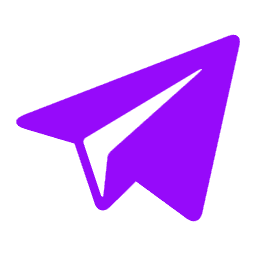
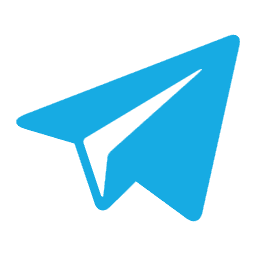
更新消息部件FunWidget

Changed region(s): [[0.0625, 0.125, 0.9375, 0.875]]

diff --git a/qt_chat/main.py b/qt_chat/main.py
@@ -97,7 +97,6 @@ class ListWidget(QListWidget):
         self.resize(974, 350)
         self.setSizePolicy(QSizePolicy.Expanding, QSizePolicy.Preferred)
         self.setHorizontalScrollBarPolicy(Qt.ScrollBarAlwaysOff)
-        self.setVerticalScrollBarPolicy(Qt.ScrollBarAlwaysOff)
         self.setFocusPolicy(Qt.NoFocus)
         self.setStyleSheet('''
         QListWidget{
@@ -158,7 +157,7 @@ class FunWidget(QWidget):
         ''')
         #newChatButton PushButton
         self.newChatButton = PushButton()
-        self.newChatButton.setFixedSize(36, 36)
+        self.newChatButton.setFixedSize(32, 32)
         self.newChatButton.setStyleSheet('''
         QPushButton{
             border-image: url("new_chat.png");
@@ -218,7 +217,7 @@ class TextEdit(QTextEdit):
             border: none;
             background :transparent;
             font-size: 22px;
-            selection-background-color: rgb(150, 10, 250);
+            selection-background-color: rgb(23, 171, 227);
         }
         QScrollBar{
             width: 25px;
@@ -368,11 +367,27 @@ class ImageLabel(QLabel):
         else:
             self.setPixmap(QPixmap("ai.png"))
 
+class CustomLabel(QLabel):
+    textSelected = pyqtSignal(str)
+
+    def __init__(self, parent=None):
+        super(CustomLabel, self).__init__(parent)
+
+    def mousePressEvent(self, event):
+        QLabel.mousePressEvent(self, event)
+        event.ignore()
+
+    def mouseReleaseEvent(self, event):
+        if event.button() == Qt.LeftButton:
+            if self.hasSelectedText():
+                self.textSelected.emit(self.selectedText())
+        QLabel.mouseReleaseEvent(self, event)
+
 class TextLabel(QWidget):
     def __init__(self, text, isUser=True, maxWidth=650, parent=None):
         super(TextLabel, self).__init__(parent)
         self.text = text.strip('\n')
-        self.label = QLabel()
+        self.label = CustomLabel()
         self.label.setTextInteractionFlags(Qt.TextSelectableByMouse)
         self.label.setWordWrap(True)
         self.maxWidth = maxWidth
@@ -504,11 +519,8 @@ class TextLabel(QWidget):
             self.label.setFixedSize(22, 22)
             self.setFixedSize(32, 32)
 
-    def hasSelectedText(self):
-        return self.label.hasSelectedText()
-
-    def selectedText(self):
-        return self.label.selectedText()
+    def connectTextSelect(self, fun):
+        self.label.textSelected.connect(fun)
 
 class LoadingWidget(QWidget):
     def __init__(self, parent=None):
@@ -544,15 +556,35 @@ class LoadingWidget(QWidget):
         ''')
         self.loadingNum = (self.loadingNum + 1) % 3
 
+class CustomButton(QPushButton):
+    def __init__(self, parent=None):
+        super(CustomButton, self).__init__(parent)
+        self.parent = parent
+        self.setCursor(Qt.PointingHandCursor)
+        #QClipboard
+        self.clip = QApplication.clipboard()
+
+    def mousePressEvent(self, event):
+        if self.parent.hasSelectedText():
+            self.clip.setText(self.parent.getSelectedText())
+        else:
+            self.clip.setText(self.parent.getText())
+        QPushButton.mousePressEvent(self, event)
+        event.ignore()
+
 class MessageWidget(QWidget):
     def __init__(self, text, copyFun, renewResponseFun, isUser=True, textMaxWidth=650, parent=None):
         super(MessageWidget, self).__init__(parent)
         self.text = text
         self.isUser = isUser
+        #selectedText
+        self.selectedText = ''
+        self.selectedTextIsLatest = False
         #ImageLabel
         self.imageLabel = ImageLabel(isUser=self.isUser)
         #TextLabel
         self.textLabel = TextLabel(text, isUser=self.isUser, maxWidth=textMaxWidth)
+        self.textLabel.connectTextSelect(self.setSelectedText)
         #loadingWidgetIsRemove
         self.loadingWidgetIsRemove = True
         #textWidget QWidget
@@ -593,8 +625,8 @@ class MessageWidget(QWidget):
         self.mainHLayout.setSpacing(5)
         #main widget set size
         self.setFixedSize(self.imageLabel.width() + 5 + self.textWidget.width(), self.imageLabel.height() if self.imageLabel.height() > self.textWidget.height() else self.textWidget.height())
-        #copyButton PushButton
-        self.copyButton = PushButton()
+        #CustomButton
+        self.copyButton = CustomButton(self)
         self.copyButton.setFixedSize(22, 22)
         self.copyButton.setStyleSheet('''
         QPushButton{
@@ -619,14 +651,12 @@ class MessageWidget(QWidget):
         self.renewResponseButton.clicked.connect(renewResponseFun)
         #funWidget QWidget
         self.funWidget = QWidget()
-        self.funWidget.setFixedSize(64, 32)
+        self.funWidget.setFixedSize(32, 32)
         #funHLayout QHBoxLayout
         self.funHLayout = QHBoxLayout()
         self.funWidget.setLayout(self.funHLayout)
         self.funHLayout.addWidget(self.copyButton)
-        self.funHLayout.addWidget(self.renewResponseButton)
         self.funHLayout.setContentsMargins(5, 5, 5, 5)
-        self.funHLayout.setSpacing(10)
 
     def setText(self, text):
         self.text = text
@@ -664,19 +694,44 @@ class MessageWidget(QWidget):
             self.setFixedSize(self.imageLabel.width() + 5 + self.textWidget.width(), self.imageLabel.height() if self.imageLabel.height() > self.textWidget.height() else self.textWidget.height())
 
     def addFunWidget(self):
-        self.textLayout.addWidget(self.funWidget)
-        self.textLayout.setSpacing(0)
-        self.textWidget.setFixedSize(self.textLabel.width() if self.textLabel.width() > self.funWidget.width() else self.funWidget.width(), self.textLabel.height() + self.funWidget.height())
-        self.setFixedSize(self.imageLabel.width() + 5 + self.textWidget.width(), self.imageLabel.height() if self.imageLabel.height() > self.textWidget.height() else self.textWidget.height())
+        if self.isUser:
+            self.textLayout.addWidget(self.funWidget)
+            self.textLayout.setSpacing(0)
+            self.textWidget.setFixedSize(self.textLabel.width() if self.textLabel.width() > self.funWidget.width() else self.funWidget.width(), self.textLabel.height() + self.funWidget.height())
+            self.setFixedSize(self.imageLabel.width() + 5 + self.textWidget.width(), self.imageLabel.height() if self.imageLabel.height() > self.textWidget.height() else self.textWidget.height())
+        else:
+            self.funHLayout.addWidget(self.renewResponseButton)
+            self.funHLayout.setSpacing(10)
+            self.funWidget.setFixedSize(64, 32)
+            self.textLayout.addWidget(self.funWidget)
+            self.textLayout.setSpacing(0)
+            self.textWidget.setFixedSize(self.textLabel.width() if self.textLabel.width() > self.funWidget.width() else self.funWidget.width(), self.textLabel.height() + self.funWidget.height())
+            self.setFixedSize(self.imageLabel.width() + 5 + self.textWidget.width(), self.imageLabel.height() if self.imageLabel.height() > self.textWidget.height() else self.textWidget.height())
 
-    def getCopyButtonId(self):
-        return id(self.copyButton)
+    def removeRenewResponseButton(self):
+        if not self.isUser:
+            self.funHLayout.removeWidget(self.renewResponseButton)
+            self.renewResponseButton.deleteLater()
+            self.funWidget.setFixedSize(32, 32)
+            self.textWidget.setFixedSize(self.textLabel.width() if self.textLabel.width() > self.funWidget.width() else self.funWidget.width(), self.textLabel.height() + self.funWidget.height())
+            self.setFixedSize(self.imageLabel.width() + 5 + self.textWidget.width(), self.imageLabel.height() if self.imageLabel.height() > self.textWidget.height() else self.textWidget.height())
+
+    def setSelectedText(self, text):
+        self.selectedText = text
+        self.selectedTextIsLatest = True
 
     def hasSelectedText(self):
-        return self.textLabel.hasSelectedText()
+        return self.selectedTextIsLatest
 
-    def selectedText(self):
-        return self.textLabel.selectedText()
+    def getSelectedText(self):
+        tempSelectedText = self.selectedText
+        self.selectedText = ''
+        self.selectedTextIsLatest = False
+        return tempSelectedText
+
+    def clearSelectedText(self):
+        self.selectedText = ''
+        self.selectedTextIsLatest = False
 
 class PrintLabel(QWidget):
     def __init__(self, text, parent=None):
@@ -688,7 +743,7 @@ class PrintLabel(QWidget):
         self.font.setBold(True)
         self.label.setFont(self.font)
         self.palette = self.label.palette()
-        self.palette.setColor(QPalette.WindowText, QColor(150, 10, 250))
+        self.palette.setColor(QPalette.WindowText, QColor(23, 171, 227))
         self.label.setPalette(self.palette)
         self.label.setAlignment(Qt.AlignCenter)
         self.mainHLayout = QHBoxLayout()
@@ -1112,8 +1167,6 @@ class MainWindow(QMainWindow):
         self.setCentralWidget(self.splitter)
         #messageWidget list
         self.messageWidgetList = []
-        #messageCopyId list
-        self.messageCopyIdList = []
         #ChatRecordsWidget
         self.chatRecordsWidget = ChatRecordsWidget(self)
         self.chatRecordsWidget.connectListItemClick(self.generateChatRecord)
@@ -1132,11 +1185,19 @@ class MainWindow(QMainWindow):
         self.saveImageLabel.move(int((self.width() - self.saveImageLabel.width()) / 2), self.chatShow.height() - self.saveImageLabel.height() + 60)
         self.saveImageLabel.raise_()
         self.saveImageLabel.hide()
-        #QClipboard
-        self.clip = QApplication.clipboard()
+        #textCopyLabel PrintLabel
+        self.textCopyLabel = PrintLabel('文本复制成功', self)
+        self.textCopyLabel.move(int((self.width() - self.textCopyLabel.width()) / 2), self.chatShow.height() - self.textCopyLabel.height() + 60)
+        self.textCopyLabel.raise_()
+        self.textCopyLabel.hide()
 
     def mousePressEvent(self, event):
         if event.button() == Qt.LeftButton:
+            #messageWidget clear selectedText
+            for i in range(0, len(self.messageWidgetList)):
+                if self.messageWidgetList[i].hasSelectedText():
+                    self.messageWidgetList[i].clearSelectedText()
+            #judge mouse press position
             if self.settingWidgetIsOpen:
                 notSettingRect = QRect(self.settingWidget.width(), 0, self.width() - self.settingWidget.width(), self.height())
                 if notSettingRect.contains(event.pos()):
@@ -1166,15 +1227,15 @@ class MainWindow(QMainWindow):
         textMaxWidth = int(self.chatShow.width() * 2 / 3)
         for i in range(0, self.chatShow.count()):
             #messageWidget set max width of textLabel
-            self.messageWidgetList[i].setTextMaxWidth(textMaxWidth)
             messageWidget = self.messageWidgetList[i]
+            messageWidget.setTextMaxWidth(textMaxWidth)
             #chatShow itemWidget adjust size
-            self.chatShow.itemWidget(self.chatShow.item(i)).setFixedSize(self.chatShow.width(), messageWidget.height() + 10)
             itemWidget = self.chatShow.itemWidget(self.chatShow.item(i))
+            itemWidget.setFixedSize(self.chatShow.width(), messageWidget.height() + 10)
             if messageWidget.getIsUser():
-                self.chatShow.itemWidget(self.chatShow.item(i)).layout().setContentsMargins(itemWidget.width() - messageWidget.width() - 5, 5, 5, 5)
+                itemWidget.layout().setContentsMargins(itemWidget.width() - messageWidget.width() - 15, 5, 15, 5)
             else:
-                self.chatShow.itemWidget(self.chatShow.item(i)).layout().setContentsMargins(5, 5, itemWidget.width() - messageWidget.width() - 5, 5)
+                itemWidget.layout().setContentsMargins(15, 5, itemWidget.width() - messageWidget.width() - 15, 5)
             #chatShow item adjust size
             self.chatShow.item(i).setSizeHint(QSize(self.chatShow.width(), messageWidget.height() + 10))
         #TextEditFull adjust size
@@ -1183,6 +1244,8 @@ class MainWindow(QMainWindow):
         self.emptyTextLabel.move(int((self.width() - self.emptyTextLabel.width()) / 2), self.topWidget.height() - self.emptyTextLabel.height() - 10)
         #move saveImageLabel
         self.saveImageLabel.move(int((self.width() - self.saveImageLabel.width()) / 2), self.topWidget.height() - self.saveImageLabel.height() - 10)
+        #move textCopyLabel
+        self.textCopyLabel.move(int((self.width() - self.textCopyLabel.width()) / 2), self.chatShow.height() - self.textCopyLabel.height() + 60)
 
     def settingWidgetInit(self):
         #setting QLabel
@@ -1472,14 +1535,13 @@ class MainWindow(QMainWindow):
             self.messageSendWidget = MessageWidget(text, self.textCopy, self.messageRenewResponse, isUser=True, textMaxWidth=int(self.chatShow.width() * 2 / 3))
             self.messageSendWidget.addFunWidget()
             self.messageWidgetList.append(self.messageSendWidget)
-            self.messageCopyIdList.append(self.messageSendWidget.getCopyButtonId())
             #itemSendWidget QWidget
             self.itemSendWidget = QWidget(self)
             self.itemSendHLayout = QHBoxLayout()
             self.itemSendHLayout.addWidget(self.messageSendWidget)
             self.itemSendWidget.setLayout(self.itemSendHLayout)
             self.itemSendWidget.setFixedSize(self.chatShow.width(), self.messageSendWidget.height() + 10)
-            self.itemSendHLayout.setContentsMargins(self.itemSendWidget.width() - self.messageSendWidget.width() - 5, 5, 5, 5)
+            self.itemSendHLayout.setContentsMargins(self.itemSendWidget.width() - self.messageSendWidget.width() - 15, 5, 15, 5)
             #sendItem QListWidgetItem
             self.sendItem = QListWidgetItem(self.chatShow)
             self.sendItem.setSizeHint(QSize(self.chatShow.width(), self.messageSendWidget.height() + 10))
@@ -1502,6 +1564,13 @@ class MainWindow(QMainWindow):
     def messageStart(self):
         #message
         self.Message = ""
+        #messageWidget remove renewResponseButton
+        i = len(self.messageWidgetList) - 1
+        if i != 0:
+            if self.messageWidgetList[i].getIsUser():
+                self.messageWidgetList[i - 1].removeRenewResponseButton()
+            else:
+                self.messageWidgetList[i].removeRenewResponseButton()
         #MessageWidget
         self.messageRecvWidget = MessageWidget(self.Message, self.textCopy, self.messageRenewResponse, isUser=False, textMaxWidth=int(self.chatShow.width() * 2 / 3))
         self.messageWidgetList.append(self.messageRecvWidget)
@@ -1511,7 +1580,7 @@ class MainWindow(QMainWindow):
         self.itemRecvHLayout.addWidget(self.messageRecvWidget)
         self.itemRecvWidget.setLayout(self.itemRecvHLayout)
         self.itemRecvWidget.setFixedSize(self.chatShow.width(), self.messageRecvWidget.height() + 10)
-        self.itemRecvHLayout.setContentsMargins(5, 5, self.itemRecvWidget.width() - self.messageRecvWidget.width() - 5, 5)
+        self.itemRecvHLayout.setContentsMargins(15, 5, self.itemRecvWidget.width() - self.messageRecvWidget.width() - 15, 5)
         #recvItem QListWidgetItem
         self.recvItem = QListWidgetItem(self.chatShow)
         self.recvItem.setSizeHint(QSize(self.chatShow.width(), self.messageRecvWidget.height() + 10))
@@ -1529,7 +1598,7 @@ class MainWindow(QMainWindow):
         self.messageRecvWidget.setText(self.Message)
         #chatShow itemWidget adjust size
         self.itemRecvWidget.setFixedSize(self.chatShow.width(), self.messageRecvWidget.height() + 10)
-        self.itemRecvHLayout.setContentsMargins(5, 5, self.itemRecvWidget.width() - self.messageRecvWidget.width() - 5, 5)
+        self.itemRecvHLayout.setContentsMargins(15, 5, self.itemRecvWidget.width() - self.messageRecvWidget.width() - 15, 5)
         #chatShow item adjust size
         self.recvItem.setSizeHint(QSize(self.chatShow.width(), self.messageRecvWidget.height() + 10))
 
@@ -1537,29 +1606,34 @@ class MainWindow(QMainWindow):
         #messageRecvWidget
         self.messageRecvWidget.removeLoadingWidget()
         self.messageRecvWidget.addFunWidget()
-        self.messageCopyIdList.append(self.messageRecvWidget.getCopyButtonId())
         #chatShow itemWidget adjust size
         self.itemRecvWidget.setFixedSize(self.chatShow.width(), self.messageRecvWidget.height() + 10)
-        self.itemRecvHLayout.setContentsMargins(5, 5, self.itemRecvWidget.width() - self.messageRecvWidget.width() - 5, 5)
+        self.itemRecvHLayout.setContentsMargins(15, 5, self.itemRecvWidget.width() - self.messageRecvWidget.width() - 15, 5)
         #chatShow item adjust size
         self.recvItem.setSizeHint(QSize(self.chatShow.width(), self.messageRecvWidget.height() + 10))
         #enable sendButton
         self.chatInput.enableSendButton()
 
     def textCopy(self):
-        copyButton = self.sender()
-        for i in range(0, len(self.messageCopyIdList)):
-            if id(copyButton) == self.messageCopyIdList[i]:
-                if self.messageWidgetList[i].hasSelectedText():
-                    print(self.messageWidgetList[i].selectedText())
-                    self.clip.setText(self.messageWidgetList[i].selectedText())
-                else:
-                    print(self.messageWidgetList[i].getText())
-                    self.clip.setText(self.messageWidgetList[i].getText())
-                break
+        #print textCopyLabel
+        self.textCopyLabel.printStart()
 
     def messageRenewResponse(self):
-        return
+        i = len(self.messageWidgetList) - 1
+        j = 1
+        while i >= j:
+            if self.messageWidgetList[i - j].getIsUser():
+                #create thread
+                self.thread = messageThread(self.messageWidgetList[i - j].getText())
+                self.thread.started.connect(self.messageStart)
+                self.thread.newMessage.connect(self.recvMessage)
+                self.thread.finished.connect(self.messageFinish)
+                self.thread.start()
+                #disable sendButton
+                self.chatInput.disableSendButton()
+                break
+            else:
+                j += 1
 
     def saveImage(self):
         #chatRect QRect
